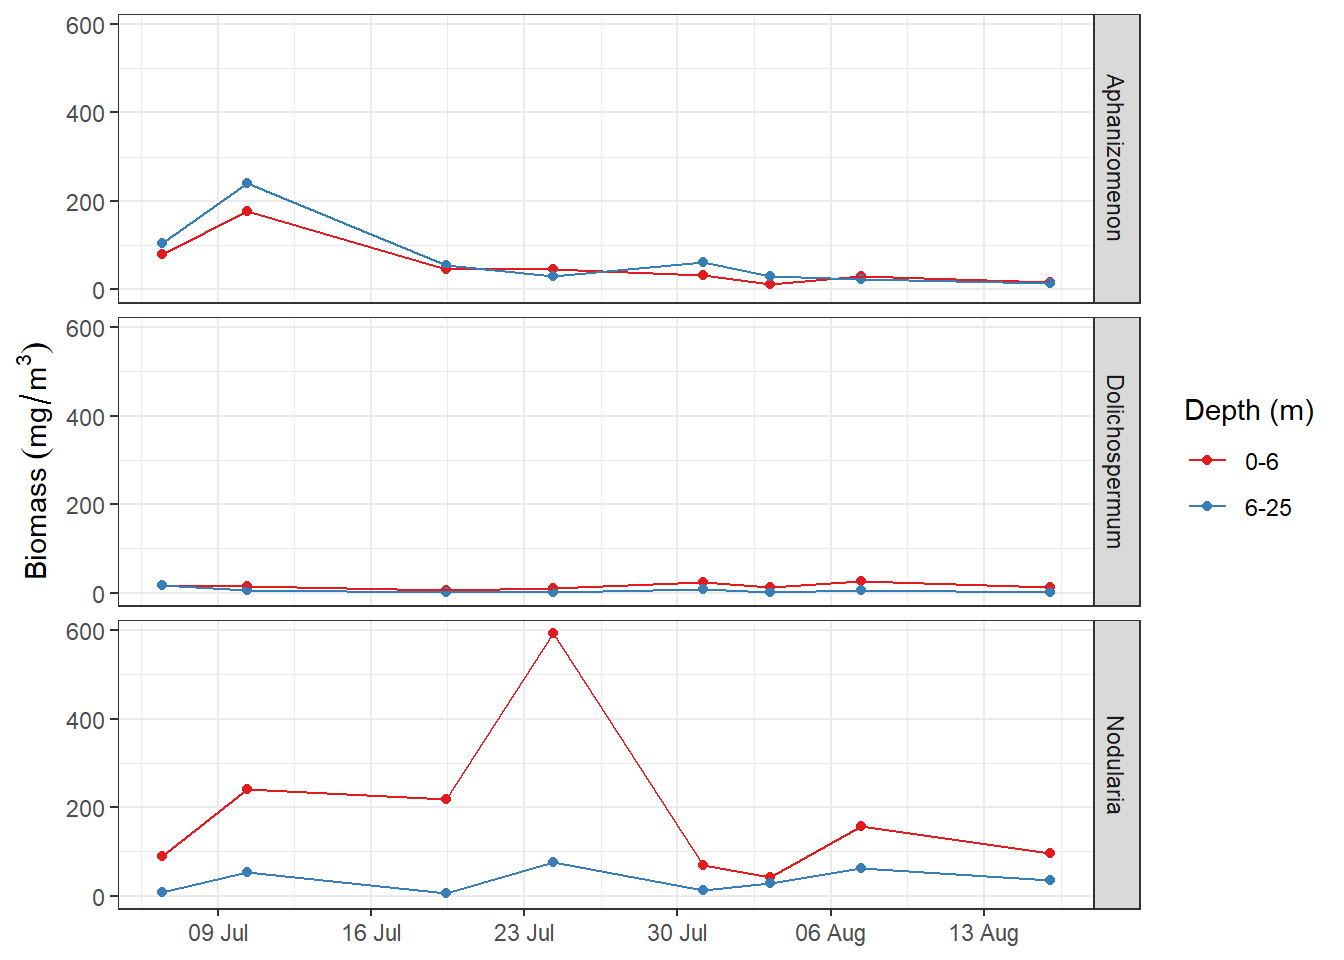
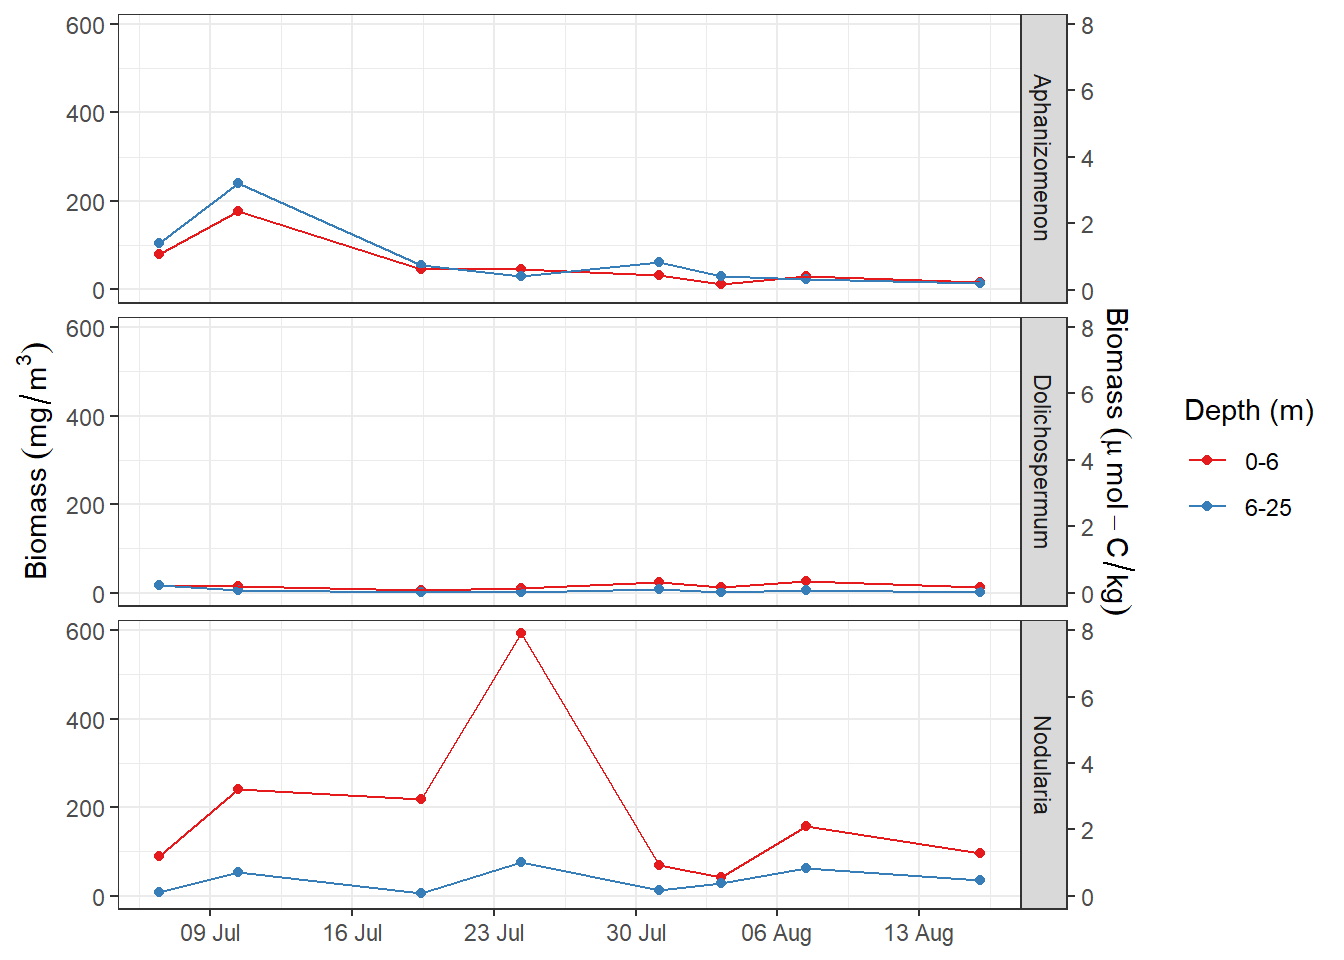
Build site.

diff --git a/docs/Phytoplankton.html b/docs/Phytoplankton.html
@@ -436,7 +436,7 @@ div.tocify {
 
 <h1 class="title toc-ignore">Phytoplankton dynamics</h1>
 <h4 class="author">Jens Daniel Müller</h4>
-<h4 class="date">20 October, 2020</h4>
+<h4 class="date">24 October, 2020</h4>
 
 </div>
 
@@ -461,7 +461,7 @@ div.tocify {
 <div class="tab-content">
 <div id="summary" class="tab-pane fade in active">
 <p>
-<strong>Last updated:</strong> 2020-10-20
+<strong>Last updated:</strong> 2020-10-24
 </p>
 <p>
 <strong>Checks:</strong> <span class="glyphicon glyphicon-ok text-success" aria-hidden="true"></span> 7 <span class="glyphicon glyphicon-exclamation-sign text-danger" aria-hidden="true"></span> 0
@@ -552,16 +552,16 @@ This reproducible <a href="http://rmarkdown.rstudio.com">R Markdown</a> analysis
 <div class="panel panel-default">
 <div class="panel-heading">
 <p class="panel-title">
-<a data-toggle="collapse" data-parent="#workflowr-checks" href="#strongRepositoryversionstrongahrefhttpsgithubcomjensdanielmuellerBloomSailtree7d02517d9eb439b6bcb5c7d8b53faceaccd98f27targetblank7d02517a"> <span class="glyphicon glyphicon-ok text-success" aria-hidden="true"></span> <strong>Repository version:</strong> <a href="https://github.com/jens-daniel-mueller/BloomSail/tree/7d02517d9eb439b6bcb5c7d8b53faceaccd98f27" target="_blank">7d02517</a> </a>
+<a data-toggle="collapse" data-parent="#workflowr-checks" href="#strongRepositoryversionstrongahrefhttpsgithubcomjensdanielmuellerBloomSailtree5fd3472eebed7f671026439c305d8c162cf81412targetblank5fd3472a"> <span class="glyphicon glyphicon-ok text-success" aria-hidden="true"></span> <strong>Repository version:</strong> <a href="https://github.com/jens-daniel-mueller/BloomSail/tree/5fd3472eebed7f671026439c305d8c162cf81412" target="_blank">5fd3472</a> </a>
 </p>
 </div>
[2 lines of base64/hex data omitted]
 <div class="panel-body">
 <p>
 Great! You are using Git for version control. Tracking code development and connecting the code version to the results is critical for reproducibility.
 </p>
 <p>
-The results in this page were generated with repository version <a href="https://github.com/jens-daniel-mueller/BloomSail/tree/7d02517d9eb439b6bcb5c7d8b53faceaccd98f27" target="_blank">7d02517</a>. See the <em>Past versions</em> tab to see a history of the changes made to the R Markdown and HTML files.
+The results in this page were generated with repository version <a href="https://github.com/jens-daniel-mueller/BloomSail/tree/5fd3472eebed7f671026439c305d8c162cf81412" target="_blank">5fd3472</a>. See the <em>Past versions</em> tab to see a history of the changes made to the R Markdown and HTML files.
 </p>
 <p>
 Note that you need to be careful to ensure that all relevant files for the analysis have been committed to Git prior to generating the results (you can use <code>wflow_publish</code> or <code>wflow_git_commit</code>). workflowr only checks the R Markdown file, but you know if there are other scripts or data files that it depends on. Below is the status of the Git repository when the results were generated:
@@ -573,27 +573,11 @@ Ignored files:
     Ignored:    data/input/
     Ignored:    data/intermediate/
     Ignored:    data/output_submission/
+    Ignored:    output/Plots/Figures_publication/.tmp.drivedownload/
 
 Untracked files:
-    Untracked:  output/Plots/Figures_publication/.tmp.drivedownload/
     Untracked:  output/Plots/Figures_publication/Appendix/nCT_sensitivity_to_AT.pdf
     Untracked:  output/Plots/Figures_publication/Appendix/nCT_sensitivity_to_AT.png
-
-Unstaged changes:
-    Modified:   output/Plots/Figures_publication/Appendix/Phytoplankton_mean_total_biomass.pdf
-    Modified:   output/Plots/Figures_publication/Appendix/TPD_CPD_cumulative.pdf
-    Modified:   output/Plots/Figures_publication/Appendix/TPD_CPD_cumulative.png
-    Modified:   output/Plots/Figures_publication/Appendix/pCO2_RT_corrected_profile_example.pdf
-    Modified:   output/Plots/Figures_publication/Appendix/pCO2_RT_corrected_profile_mean_abs_offset.pdf
-    Modified:   output/Plots/Figures_publication/Appendix/tau_fit_example.pdf
-    Modified:   output/Plots/Figures_publication/Appendix/tb_profiles.pdf
-    Modified:   output/Plots/Figures_publication/Article/Hov_abs_profiles_cum.pdf
-    Modified:   output/Plots/Figures_publication/Article/atm_water_timeseries.pdf
-    Modified:   output/Plots/Figures_publication/Article/data_coverage.pdf
-    Modified:   output/Plots/Figures_publication/Article/profiles_all.pdf
-    Modified:   output/Plots/Figures_publication/Article/station_map.pdf
-    Modified:   output/Plots/merging_interpolation/Zero_time_synchronization.pdf
-    Modified:   output/Plots/response_time/tau_determination_pCO2_corr_flushperiods_nls.pdf
 
 </code></pre>
 <p>
@@ -632,6 +616,40 @@ Message
 </tr>
 </thead>
 <tbody>
+<tr>
+<td>
+Rmd
+</td>
+<td>
+<a href="https://github.com/jens-daniel-mueller/BloomSail/blob/5fd3472eebed7f671026439c305d8c162cf81412/analysis/Phytoplankton.Rmd" target="_blank">5fd3472</a>
+</td>
+<td>
+jens-daniel-mueller
+</td>
+<td>
+2020-10-24
+</td>
+<td>
+unit conversion biomass
+</td>
+</tr>
+<tr>
+<td>
+html
+</td>
+<td>
+<a href="https://rawcdn.githack.com/jens-daniel-mueller/BloomSail/05248bf3c35f620221de7b851679658ebc844f6c/docs/Phytoplankton.html" target="_blank">05248bf</a>
+</td>
+<td>
+jens-daniel-mueller
+</td>
+<td>
+2020-10-20
+</td>
+<td>
+Build site.
+</td>
+</tr>
 <tr>
 <td>
 html
@@ -957,6 +975,7 @@ tp_ID_grid &lt;- tp %&gt;%
 
 
 tp_ID_grid &lt;- full_join(cruise_dates, tp_ID_grid)</code></pre>
+<pre class="r"><code>tp_ID_grid &lt;- tp_ID_grid</code></pre>
 <pre class="r"><code>tp_ID_grid %&gt;%
   filter(Species != &quot;total&quot;) %&gt;%
   ggplot(aes(date_time_ID, value, col = dep_grid)) +
@@ -965,6 +984,8 @@ tp_ID_grid &lt;- full_join(cruise_dates, tp_ID_grid)</code></pre>
   facet_grid(Species ~ .) +
   scale_color_brewer(palette = &quot;Set1&quot;, name = &quot;Depth (m)&quot;) +
   scale_x_datetime(breaks = &quot;week&quot;, date_labels = &quot;%d %b&quot;) +
+  scale_y_continuous(sec.axis = sec_axis(~ . * 0.16 / 12,
+                                         name = expression(Biomass ~ (mu~mol-C / kg)))) +
   labs(y = expression(Biomass ~ (mg / m ^ 3))) +
   theme(axis.title.x = element_blank())</code></pre>
 <p><img src="figure/Phytoplankton.Rmd/phytoplankton_time_series-1.png" width="672" style="display: block; margin: auto;" /></p>
